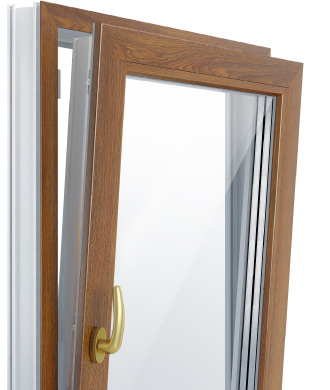
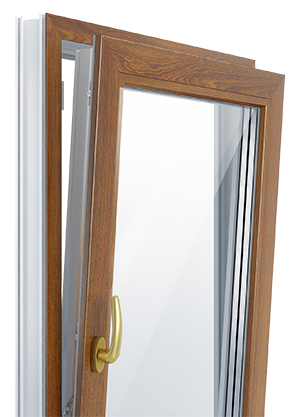
Заменил фото в разделе Пластиковое остекление коттеджей на png

diff --git a/rusokon/index.html b/rusokon/index.html
@@ -316,7 +316,7 @@
 						<div class="uk-child-width-1-3@m uk-grid-collapse" uk-grid>
 							<div class="uk-flex uk-flex-bottom uk-flex-center uk-padding uk-padding-remove-bottom uk-background-muted">
 								<ul id="switcher-1" class="uk-switcher">
-									<li><img class="uk-margin-auto-top" src="images/product-11.png" alt=""></li>
+									<li><img class="uk-margin-auto-top" src="images/product-1.png" alt=""></li>
 									<li><img class="uk-margin-auto-top" src="images/product-2.png" alt=""></li>
 									<li><img class="uk-margin-auto-top" src="images/product-3.png" alt=""></li>
 									<li><img class="uk-margin-auto-top" src="images/product-4.png" alt=""></li>
